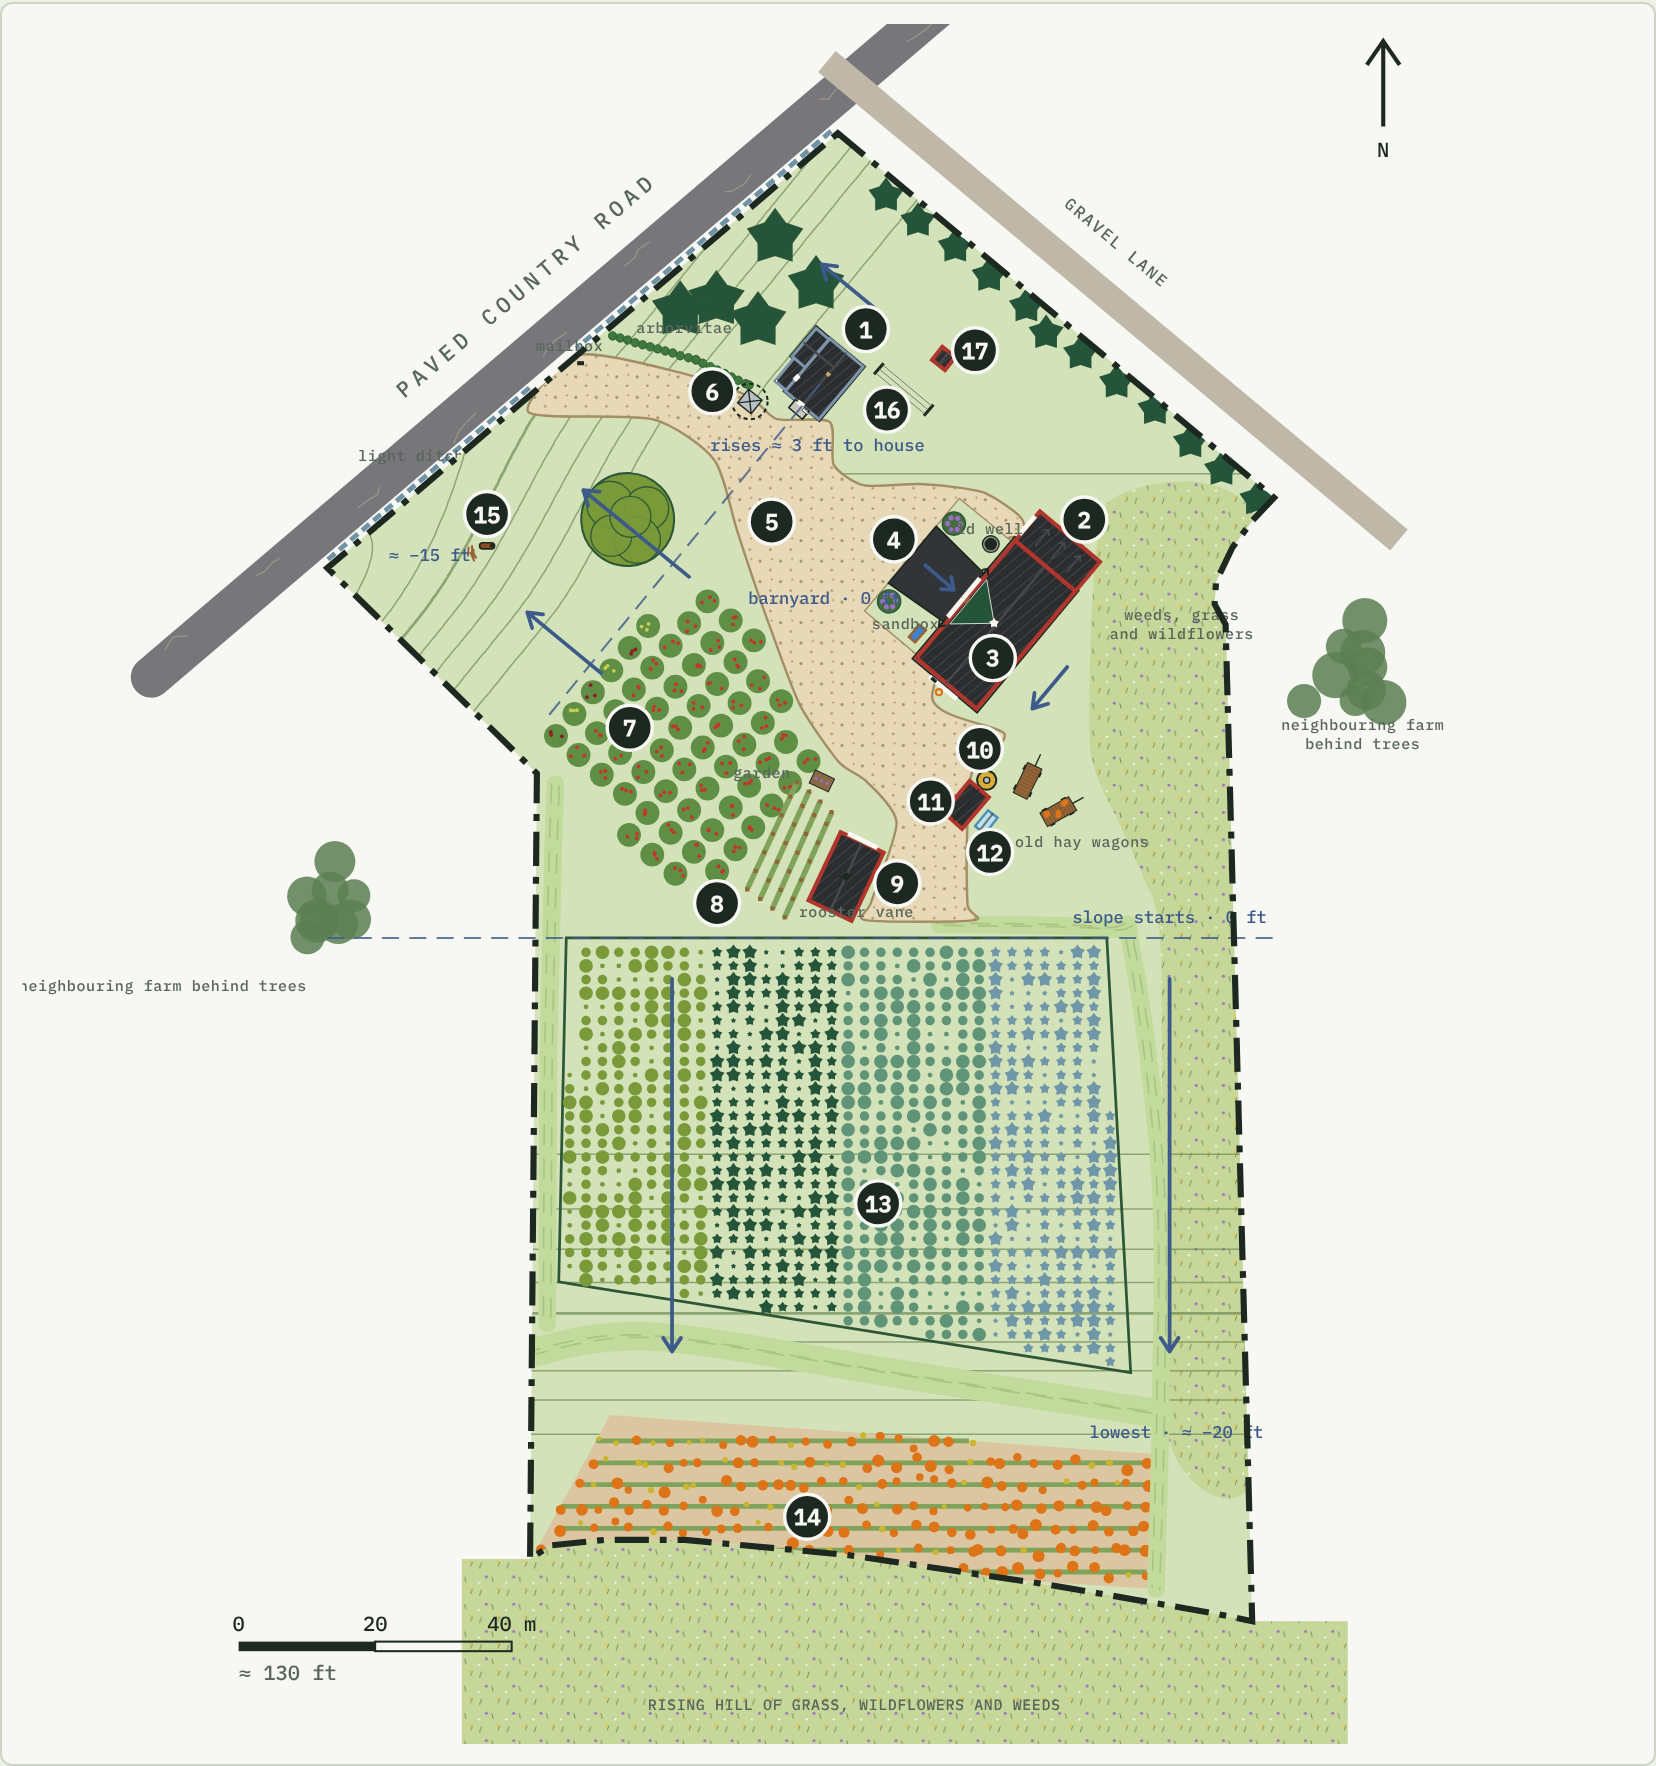
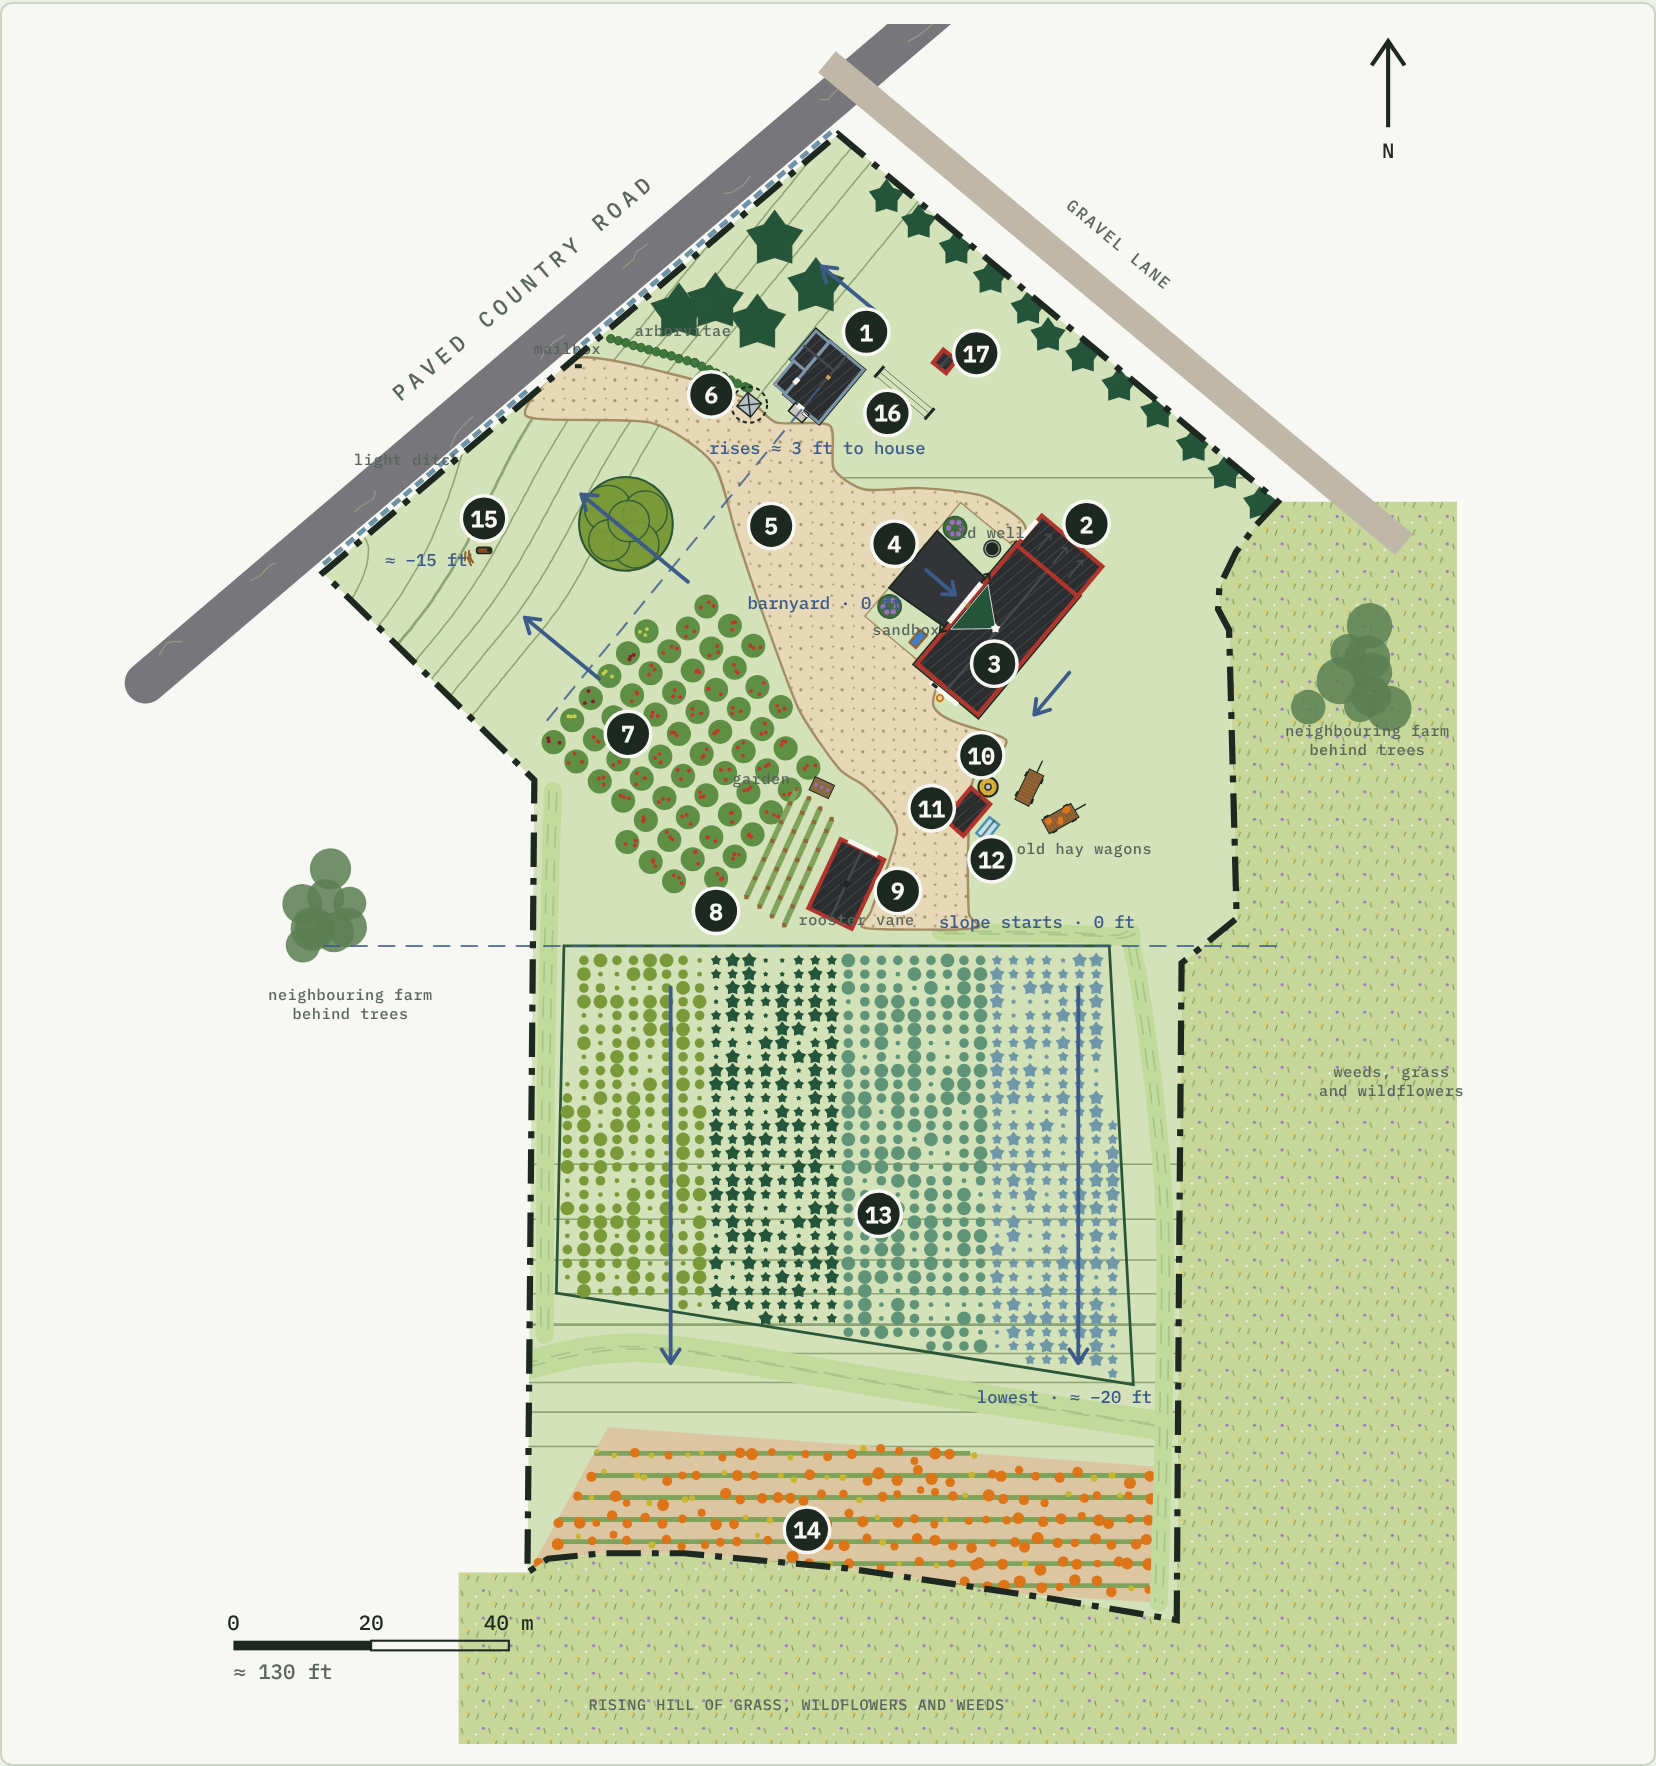
Farm blueprint v9: east line hugs the Christmas trees
From the top of the Christmas tree block south, the east property line now
runs just outside the east mowed path. The field of weeds, grass and
wildflowers moves outside that line, and the east side inside is mowed
grass down to the pumpkins.

Claude-Session: https://claude.ai/code/session_01K5AitRh85yE9JUmPe87mip

diff --git a/tools/farm-blueprint/page_template.html b/tools/farm-blueprint/page_template.html
@@ -313,7 +313,7 @@ figcaption b { font-family: var(--mono); font-weight: 500; color: var(--accent);
 
 <div class="wrap">
   <header>
-    <div class="eyebrow">Epic Racer · new map · blueprint v8</div>
+    <div class="eyebrow">Epic Racer · new map · blueprint v9</div>
     <h1>Grandparents' Farm Blueprint</h1>
     <p class="lede">Every landmark from your hand sketch, placed on the property's real outline, now updated with your first round of answers: the barn's foundation and doors, the centred ramp, the four kinds of Christmas trees and the slope of the land. Still only the land. Race routes come later.</p>
   </header>
@@ -328,7 +328,7 @@ figcaption b { font-family: var(--mono); font-weight: 500; color: var(--accent);
 
   <section>
     <div class="section-head">
-      <h2>What changed in v8</h2>
+      <h2>What changed in v9</h2>
       <p>Your answers, and where they show up on the map.</p>
     </div>
     <dl class="then-now">{{CHANGES}}</dl>
@@ -348,7 +348,7 @@ figcaption b { font-family: var(--mono); font-weight: 500; color: var(--accent);
       <p>Your sketch is the master for what was where. The satellite photo only supplies the true shape and size of the land.</p>
     </div>
     <div class="facts">
-      <div class="fact"><b>≈ 5 acres</b><span>About 139 m (455 ft) across at the widest and 218 m (715 ft) from the road corner to the south line, scaled to your 5-acre estimate. Today's buildings and road gave 4.6 acres, so the two agree closely.</span></div>
+      <div class="fact"><b>≈ 4.8 acres</b><span>Scaled to your 5-acre estimate on the satellite outline, then trimmed on the east where you remember the line hugging the Christmas trees. About 218 m (715 ft) from the road corner to the south line.</span></div>
       <div class="fact"><b>7 matched points</b><span>Your outline and the satellite outline agree point for point: the corner at the road, the west corner, the notch, both south corners, the northeast corner and where the driveway meets the road. I stretched your sketch onto the real shape at those points.</span></div>
       <div class="fact"><b>House and barn confirmed</b><span>You confirmed the farmhouse and the big barn stood where today's house and barn stand, so everything else is placed around them.</span></div>
       <div class="fact"><b>Squared to one grid</b><span>Today's barn sits square to the northeast property line, and your buildings are drawn square to each other. So every building is snapped to that same grid.</span></div>

diff --git a/tools/farm-blueprint/render_svg.py b/tools/farm-blueprint/render_svg.py
@@ -179,6 +179,12 @@ def render():
     south = bd[(bd[:, 1] < 12)]
     hill = [(p[0], p[1]) for p in south[np.argsort(south[:, 0])]]
     hill = [(hill[0][0] - 10, hill[0][1])] + hill + [(hill[-1][0] + 14, hill[-1][1]), (hill[-1][0] + 14, miny), (hill[0][0] - 10, miny)]
+    # The wild field of weeds, grass and wildflowers lies outside the east line (v9)
+    east_out = [p for p in bd[1:11]] + [np.array([bd[10][0], miny]), np.array([maxx, miny]), np.array([maxx, bd[1][1]])]
+    out.append(f'<g id="lm-meadow"><path class="meadow" d="{poly_d(east_out)}"/>')
+    out.append(tag((maxx - 9.5, 72), 'weeds, grass'))
+    out.append(tag((maxx - 9.5, 69.2), 'and wildflowers'))
+    out.append('</g>')
     out.append(f'<g id="lm-outside"><path class="meadow" d="{poly_d(hill)}"/>')
     out.append(tag((np.mean([p[0] for p in hill[:-2]]), miny + 5), 'RISING HILL OF GRASS, WILDFLOWERS AND WEEDS'))
     for c, label, anchor in (((ne[0] + 13, ne[1] - 24), 'neighbouring farm behind trees', 'middle'),
@@ -190,7 +196,8 @@ def render():
             out.append(tag((c[0], c[1] - 10), 'neighbouring farm', anchor))
             out.append(tag((c[0], c[1] - 12.8), 'behind trees', anchor))
         else:
-            out.append(tag((c[0] - 7, c[1] - 10), label, anchor))
+            out.append(tag((c[0], c[1] - 10), 'neighbouring farm', 'middle'))
+            out.append(tag((c[0], c[1] - 12.8), 'behind trees', 'middle'))
     out.append('</g>')
 
     # The paved country road along the NW edge, with aged cracks, and the lane seen today on the NE.
@@ -223,7 +230,6 @@ def render():
     # Ground: mowed lawn, then contour lines every 2 ft relative to the barnyard
     out.append(f'<path class="lawn" d="{poly_d(bd)}"/>')
     out.append('<g clip-path="url(#prop)">')
-    out.append(f'<g id="lm-meadow"><path class="meadow" d="{smooth_d(P(F["meadow_east"]["poly"]), True, 0.3)}"/></g>')
     g = terrain.Ground()
     cs = terrain.contours(g, bd[:, 0].min() - 2, bd[:, 0].max() + 2, bd[:, 1].min() - 2, bd[:, 1].max() + 2)
     out.append('<g id="lm-ground">')
@@ -494,7 +500,7 @@ def render():
         return (f'<path class="slope" d="M{svgpt(p)} L{svgpt(q)} M{svgpt(q - dd * 2 + nn * 1.3)} '
                 f'L{svgpt(q)} L{svgpt(q - dd * 2 - nn * 1.3)}"/>')
 
-    for x in (20 * K, 90 * K):
+    for x in (20 * K, 80.0):
         out.append(downhill((x, g.y_top - 6), (x, g.y_low + 22)))
     wmid = g.A + (g.H - g.A) * 0.45
     out.append(downhill(wmid - g.n * 3, wmid + g.n * 17))
@@ -507,8 +513,8 @@ def render():
     def spot(p, text, anchor='middle'):
         return f'<text class="spot" text-anchor="{anchor}" x="{p[0]:.1f}" y="{-p[1]:.1f}">{text}</text>'
 
-    out.append(spot((90 * K, g.y_top + 2.2), 'slope starts · 0 ft'))
-    out.append(spot((91 * K, 17 * K), 'lowest · ≈ −20 ft'))
+    out.append(spot((74.0, g.y_top + 2.6), 'slope starts · 0 ft'))
+    out.append(spot((78.0, 24.6), 'lowest · ≈ −20 ft'))
     out.append(spot(west + (9, 1), '≈ −15 ft', 'start'))
     out.append(spot(P([(1035, 560)])[0], 'barnyard · 0 ft'))
     out.append(spot(house_c + np.array([-1.0, -10.5]), 'rises ≈ 3 ft to house'))
@@ -522,8 +528,6 @@ def render():
     out.append(tag(P([(866, 296)])[0] + V * 2.6 + U * 1, 'arborvitae'))
     out.append(tag(g9c + np.array([1.5, -6.0]), 'rooster vane'))
     out.append(tag(sh + np.array([17.0, -6.2]), 'old hay wagons'))
-    out.append(tag(P([(1385, 560)])[0], 'weeds, grass'))
-    out.append(tag(P([(1385, 560)])[0] - (0, 2.8), 'and wildflowers'))
 
     # Property line on top
     out.append(f'<path class="propline" d="{poly_d(bd)}"/>')

diff --git a/tools/farm-blueprint/notes.py b/tools/farm-blueprint/notes.py
@@ -29,7 +29,7 @@ LEGEND = [
     ('lm-treerow', '·', 'Spruce row', 'Along the northeast line'),
     ('lm-conifers', '·', 'Five big spruces', '10–20 ft taller than the house'),
     ('lm-paths', '·', 'Mowed grass paths', 'With tractor tyre marks'),
-    ('lm-meadow', '·', 'Wild field', 'Weeds, grass and wildflowers'),
+    ('lm-meadow', '·', 'Wild field', 'Outside the east line'),
     ('lm-ground', '·', 'Contour lines', 'Every 2 ft; thicker every 10 ft'),
     ('lm-slopes', '·', 'Slopes', 'Arrows point downhill'),
     ('lm-outside', '·', 'Beyond the line', 'Hill to the south, neighbours behind trees'),
@@ -171,14 +171,14 @@ CARDS = [
      ['The big tree was a very large Scotch pine.',
       'The northeast row was evergreen spruce.',
       'Dashed lines and the south lane were mowed grass paths, often with tractor tyre marks.',
-      'The blank land east of the barn was a field of weeds, grass and wildflowers.',
+      'The field of weeds, grass and wildflowers lies outside the east property line. Inside, the far east side is mowed grass running down to the pumpkins.',
       'The five evergreens between the road and the house were very large spruces, 10 to 20 ft taller than the house.',
       'A row of mature arborvitae, about 11 ft tall, ran along the north edge of the driveway from the road to the windmill, with no big tree in the line.'],
      []),
     ('·', 'The land as a whole',
      'Your sketch shows the layout. These answers decide the ground under it.',
      'Contours every 2 ft follow your slopes. Barnyard is level zero.',
-     ['About 5 acres. Same property line as the red line today.',
+     ['About 5 acres. Same property line as the red line today, except on the east: from where the Christmas trees start, the line comes in to run just outside the east mowed path (about 4.8 acres in all).',
       'South slope: about 20 ft down to the pumpkin patch, slight on the north side and steeper toward the bottom.',
       'West slope: about 15 ft down to the road corner. North of the house, the ground also falls toward the road.',
       'The yard rises slightly as you drive toward the farmhouse.',
@@ -193,7 +193,7 @@ CARDS = [
 ]
 
 CHANGES = [
-    ('Spruces', 'The big spruce that stood in the arborvitae row moved about 6 m north, so the arborvitae line from the road to the windmill is unbroken.'),
-    ('Lilacs', 'Confirmed as lilacs, shown with purple blossoms.'),
-    ('Open questions', 'None left. Every landmark card is settled.'),
+    ('East property line', 'From where the Christmas trees start, the line now steps in and runs about 8 ft outside the east mowed path, down to the south line. North of that, beside the barn, it is unchanged. The property comes to about 4.8 acres.'),
+    ('Wild field', 'The weeds, grass and wildflowers now lie outside the east line, joining the wildflower hill to the south.'),
+    ('East side', 'Inside the line, the east side is mowed grass, with the mowed path running down to the pumpkins.'),
 ]

diff --git a/tools/farm-blueprint/blueprint.py b/tools/farm-blueprint/blueprint.py
@@ -178,11 +178,23 @@ def convert(v):
     return v
 
 
+# v9: as remembered, the east line steps in where the Christmas trees start and then runs just
+# outside the east mowed path down to the south line. The old strip east of it is wild field
+# outside the property. Points in metres, replacing the satellite SE corner.
+EAST_LINE_M = [(103.0, 95.0), (95.0, 88.5), (94.6, 40.0), (94.3, -6.9)]
+
+
+def boundary_m():
+    pts = np.round(to_m(np.array(BOUNDARY_AERIAL, float)), 1).tolist()
+    se = BOUNDARY_AERIAL.index((1040, 1168))
+    return pts[:se] + [list(p) for p in EAST_LINE_M] + pts[se + 2:]  # drop the old SE corner and next point
+
+
 def blueprint():
     out = {
         'units': 'metres; x east, y north; origin = SW property corner',
         'm_per_aerial_px': M_PER_PX,
-        'boundary': np.round(to_m(np.array(BOUNDARY_AERIAL, float)), 1).tolist(),
+        'boundary': boundary_m(),
         'features': {k: {kk: convert(vv) for kk, vv in v.items()} for k, v in F.items()},
     }
     return out

diff --git a/docs/farm/README.md b/docs/farm/README.md
@@ -7,7 +7,7 @@ routes are deliberately not designed yet.
 | File | What it is |
 | --- | --- |
 | `sketch.jpg` | The hand-drawn master sketch with the 17 numbered landmarks. It wins every disagreement. |
-| `blueprint.png` | The current blueprint (v8): landmarks on the real outline, contours every 2 ft. |
+| `blueprint.png` | The current blueprint (v9): landmarks on the real outline, contours every 2 ft. |
 | `blueprint.json` | The same blueprint as data, in metres (x east, y north, origin at the SW property corner): every confirmed fact, the open questions, the terrain model and all 913 Christmas trees. |
 
 ## Landmarks
@@ -25,8 +25,9 @@ mature lilac (purple blossoms) grows from the grass on each side at the bottom o
 
 ## The picture to capture
 
-Lush green summer into early fall: fruit on the trees, flowers blooming, sunshine. Five
-acres bordered by prairie and trees, no fences. A cracked paved country road on the
+Lush green summer into early fall: fruit on the trees, flowers blooming, sunshine. About
+five acres bordered by prairie and trees, no fences. A wild field of weeds, grass and
+wildflowers lies outside the east line. A cracked paved country road on the
 northwest side with a light ditch along it, a gravel lane on the northeast, neighbouring
 farmhouses behind trees to the northeast and southwest, and a
 rising hill of grass and wildflowers past the pumpkin patch.
@@ -60,7 +61,9 @@ the barn's ramp side.
 ## How it was made
 
 - The property outline was traced from a present-day satellite photo (not committed) and
-  scaled to the owner's estimate of about 5 acres (≈ 139 m × 218 m).
+  scaled to the owner's estimate of about 5 acres (≈ 139 m × 218 m). South of the Christmas
+  trees' top edge, the east line follows memory instead: just outside the east mowed path
+  (≈ 4.8 acres in all).
 - The sketch was stretched onto that outline with mean value coordinates, matching 7 points
   (both road corners, the notch, both south corners, the NE corner, the driveway entrance),
   with the farmhouse and barn pinned to today's footprints.
